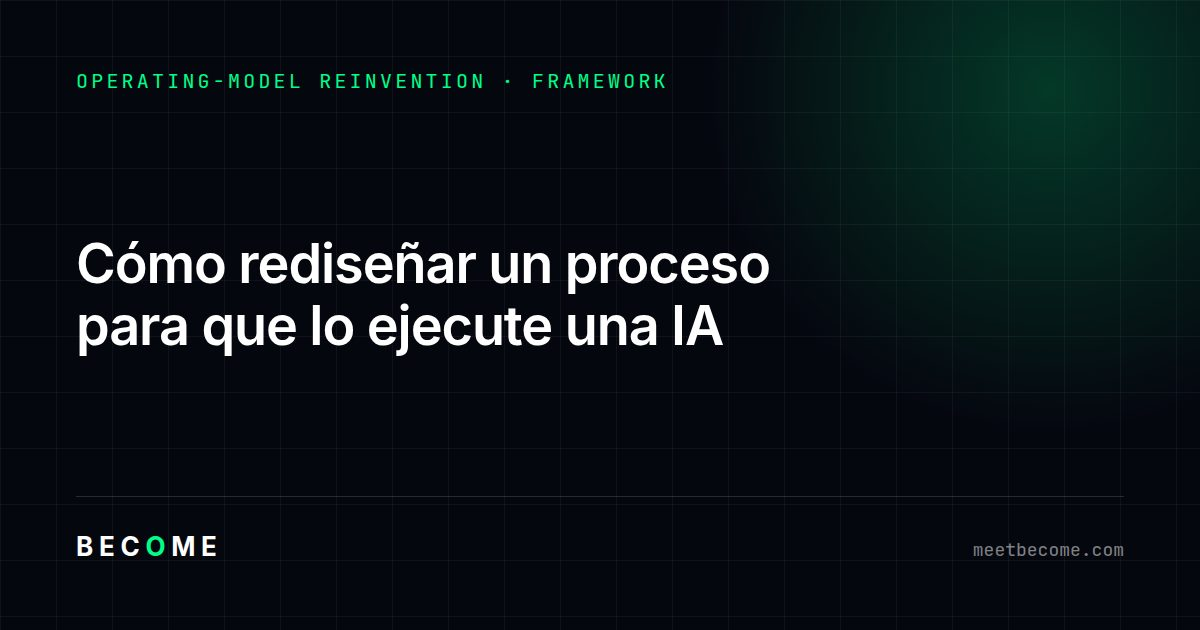
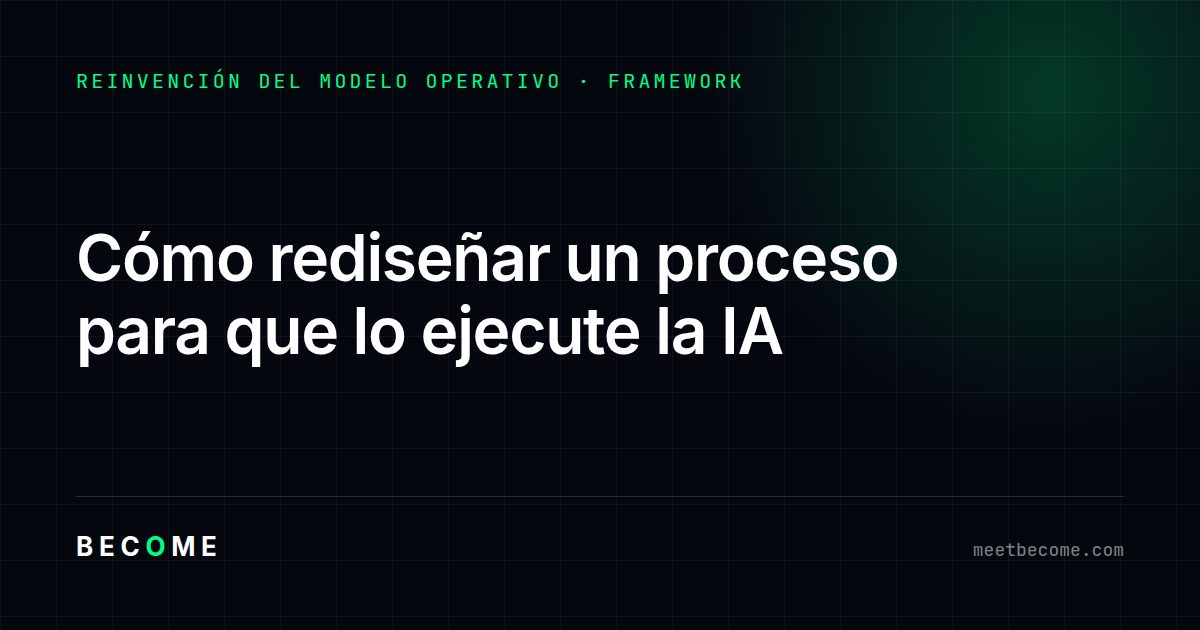
Insights: revisión de Cómo rediseñar un proceso para que lo ejecute la IA

Changed region(s): [[0.0617, 0.3619, 0.7708, 0.573], [0.2467, 0.1206, 0.6167, 0.1508], [0.0617, 0.1206, 0.2158, 0.1508]]

diff --git a/automatizacion/seguimiento.md b/automatizacion/seguimiento.md
@@ -28,7 +28,7 @@ abandonar a la primera algo que solo necesitaba más cuerpo.
 |---|---|---|---|---|---|
 | `quien-responde-cuando-responde-un-agente` | 2026-08-20 | ¿Quién responde cuando un agente de IA toma una decisión equivocada? / Who is accountable when an AI agent makes a wrong decision? | 2026-09-20 | `revisado` | Quinta medición (31 días): sigue sin aparecer — supera las cuatro semanas. En español rompe la racha de elenco congelado: entran enter.co, agentesautonomosia.com y davidlahozmartin.substack.com; persisten letslaw.es, expoknews.com, spanish.entrepreneur.com, ciec.edu.co, itmastersmag.com, cloud.google.com. En inglés sale Emerge Digital y entran Monash Lens y dos papers de arXiv; el trío Salesforce/ISHIR/Brownstein se mantiene como núcleo. **Revisado el 2026-09-22** siguiendo la hipótesis del informe (competía de frente con despachos de abogados y con un producto ya establecido, Salesforce Agentforce, en su propio terreno legal y de producto): se añadió un párrafo, en los dos idiomas, que separa la responsabilidad legal —la resuelve un tribunal o un contrato, después del hecho— del dueño operativo —la persona que la empresa nombra antes de que el agente actúe—, y se sumó una FAQ nueva que responde esa distinción de forma autosuficiente y citable, marcando que un panel de auditoría de producto no la resuelve. Slug y fecha de publicación sin tocar. Vuelve a contar cuatro semanas desde hoy |
 | `por-que-tus-pilotos-de-ia-no-llegan-a-produccion` | 2026-08-20 | ¿Por qué mis pilotos de IA no llegan a producción? / Why do most AI pilots never scale? | 2026-09-20 | `plano` | Quinta medición (31 días): sigue sin aparecer — supera las cuatro semanas. Irontec y Concentrix se mantienen como líderes en español por quinta semana consecutiva (duopolio estable); entran de nicho rrhhdigital.com e ivanlopezdev.es. En inglés el elenco previo se mantiene casi intacto, solo se suman dos piezas nuevas (Medium, aixfactor.substack.com) sin desplazar a nadie |
-| `como-se-redisena-un-proceso-para-que-lo-ejecute-una-ia` | 2026-08-21 | ¿Cómo se rediseña un proceso para que lo ejecute en parte una IA? | 2026-09-20 | `plano` | Quinta medición (30 días): sigue sin aparecer — supera las cuatro semanas. El elenco sigue siendo el más volátil del barrido: vuelven modernsalesia.substack.com y aicodingpatterns.com (habían salido la semana pasada), salen RSM Global, Alloxentric y agenciasdecomunicacion.org; entran rrhhdigital.com, crece30xai.substack.com, datadec.es y transformaciondigital.pe. Persisten empresas.entel.cl, agilenext.mx y networkautomationlabs.com — ninguna consultora grande se sostiene |
+| `como-se-redisena-un-proceso-para-que-lo-ejecute-una-ia` | 2026-08-21 | ¿Cómo se rediseña un proceso para que lo ejecute en parte una IA? | 2026-09-20 | `revisado` | Quinta medición (30 días): sigue sin aparecer — supera las cuatro semanas. El elenco sigue siendo el más volátil del barrido: vuelven modernsalesia.substack.com y aicodingpatterns.com (habían salido la semana pasada), salen RSM Global, Alloxentric y agenciasdecomunicacion.org; entran rrhhdigital.com, crece30xai.substack.com, datadec.es y transformaciondigital.pe. Persisten empresas.entel.cl, agilenext.mx y networkautomationlabs.com — ninguna consultora grande se sostiene. **Revisado el 2026-09-23** siguiendo la hipótesis del informe (atacaba la pregunta de lado: el terreno es el más ruidoso del barrido porque nadie ha fijado todavía una respuesta lo bastante concreta y citable): se nombró el marco de las cinco preguntas — «el filtro de cinco preguntas» — en la entradilla, en el primer subtítulo, en el nombre de la sección del marco, en el destacado y en la primera FAQ, en los dos idiomas, y de paso se corrigió la FAQ en español e inglés, que solo enumeraba cuatro de los cinco criterios (le faltaba «rastro»). Slug y fecha de publicación sin tocar. Vuelve a contar cuatro semanas desde hoy |
 | `por-que-tu-equipo-no-usa-la-ia-que-le-diste` | 2026-08-22 | ¿Cómo consigo que mi equipo use de verdad las herramientas de IA? | 2026-09-20 | `revisado` | Quinta medición (29 días): sigue sin aparecer — supera las cuatro semanas. Rompe la racha de cero rotación: sale privedge.io y entran iadopters.substack.com, magnesium.team, spanish.entrepreneur.com y global.techradar.com — primera vez que un medio internacional grande (TechRadar) aparece en este artículo. Persisten iacomopuedas.substack.com, blog.deiser.com, onext.es y 100x.mx; onext.es sigue siendo el competidor de framing más cercano. **Revisado el 2026-09-20** siguiendo la hipótesis del informe (le faltaba cuerpo frente a onext.es): los cuatro términos del marco («Seguridad», «Tiempo liberado», «Curva», «Medida») pasaron de pregunta abierta a criterio concreto con una regla accionable cada uno, y se añadió una pregunta frecuente nueva sobre el plazo mínimo (cuatro semanas) antes de juzgar la adopción, en los dos idiomas. Slug y fecha de publicación sin tocar. Vuelve a contar cuatro semanas desde hoy |
 | `que-puede-hacer-un-agente-sin-supervision` | 2026-08-23 | ¿Cómo se decide qué puede hacer un agente sin supervisión humana? / How do you define the scope of an autonomous AI agent at work? | 2026-09-20 | `revisado` | Cuarta medición (28 días): sigue sin aparecer — cumple exactamente las cuatro semanas. En español, rotación fuerte: solo persisten novatierra.com y agent-swarm.dev; entra Infobae (primer medio grande de LatAm en este artículo) junto con agentzia.es, escudodigital.com y otros. En inglés, AWS regresa y entran Creatio, NVIDIA e IBM por primera vez; sigue sin ninguna consultora de estrategia en ningún idioma. **Revisado el 2026-09-21** siguiendo la hipótesis del informe (la respuesta no era citable frente a documentación de producto técnica): se añadió un párrafo, en los dos idiomas, que explica por qué el corte tiene que vivir en el código que ejecuta la acción y no en el prompt del agente, se afiló «Detección» con el mecanismo concreto (registro de cada llamada, alerta antes de ejecutar), y se sumó una FAQ nueva sobre dónde va el límite. Slug y fecha de publicación sin tocar. Vuelve a contar cuatro semanas desde hoy |
 | `como-medir-el-retorno-real-de-la-ia` | 2026-08-24 | ¿Cómo se mide el retorno real de una iniciativa de IA? / How do you measure the actual value of an AI initiative? | 2026-09-20 | `nuevo` | Cuarta medición (27 días): sigue sin aparecer, a un día de cumplir cuatro semanas. En español blackholdconsulting.com entra y sale de forma intermitente (vuelve a aparecer); salen getdarwin.ai e ia-estrategica.com.mx; entran missyera.com, xternus.com y aizualabs.com. En inglés rotación casi total — solo sobrevive CIO.com de la semana pasada; entran Orange Business, Toptal, Google Cloud y otros, ninguno de gran consultora de estrategia |
